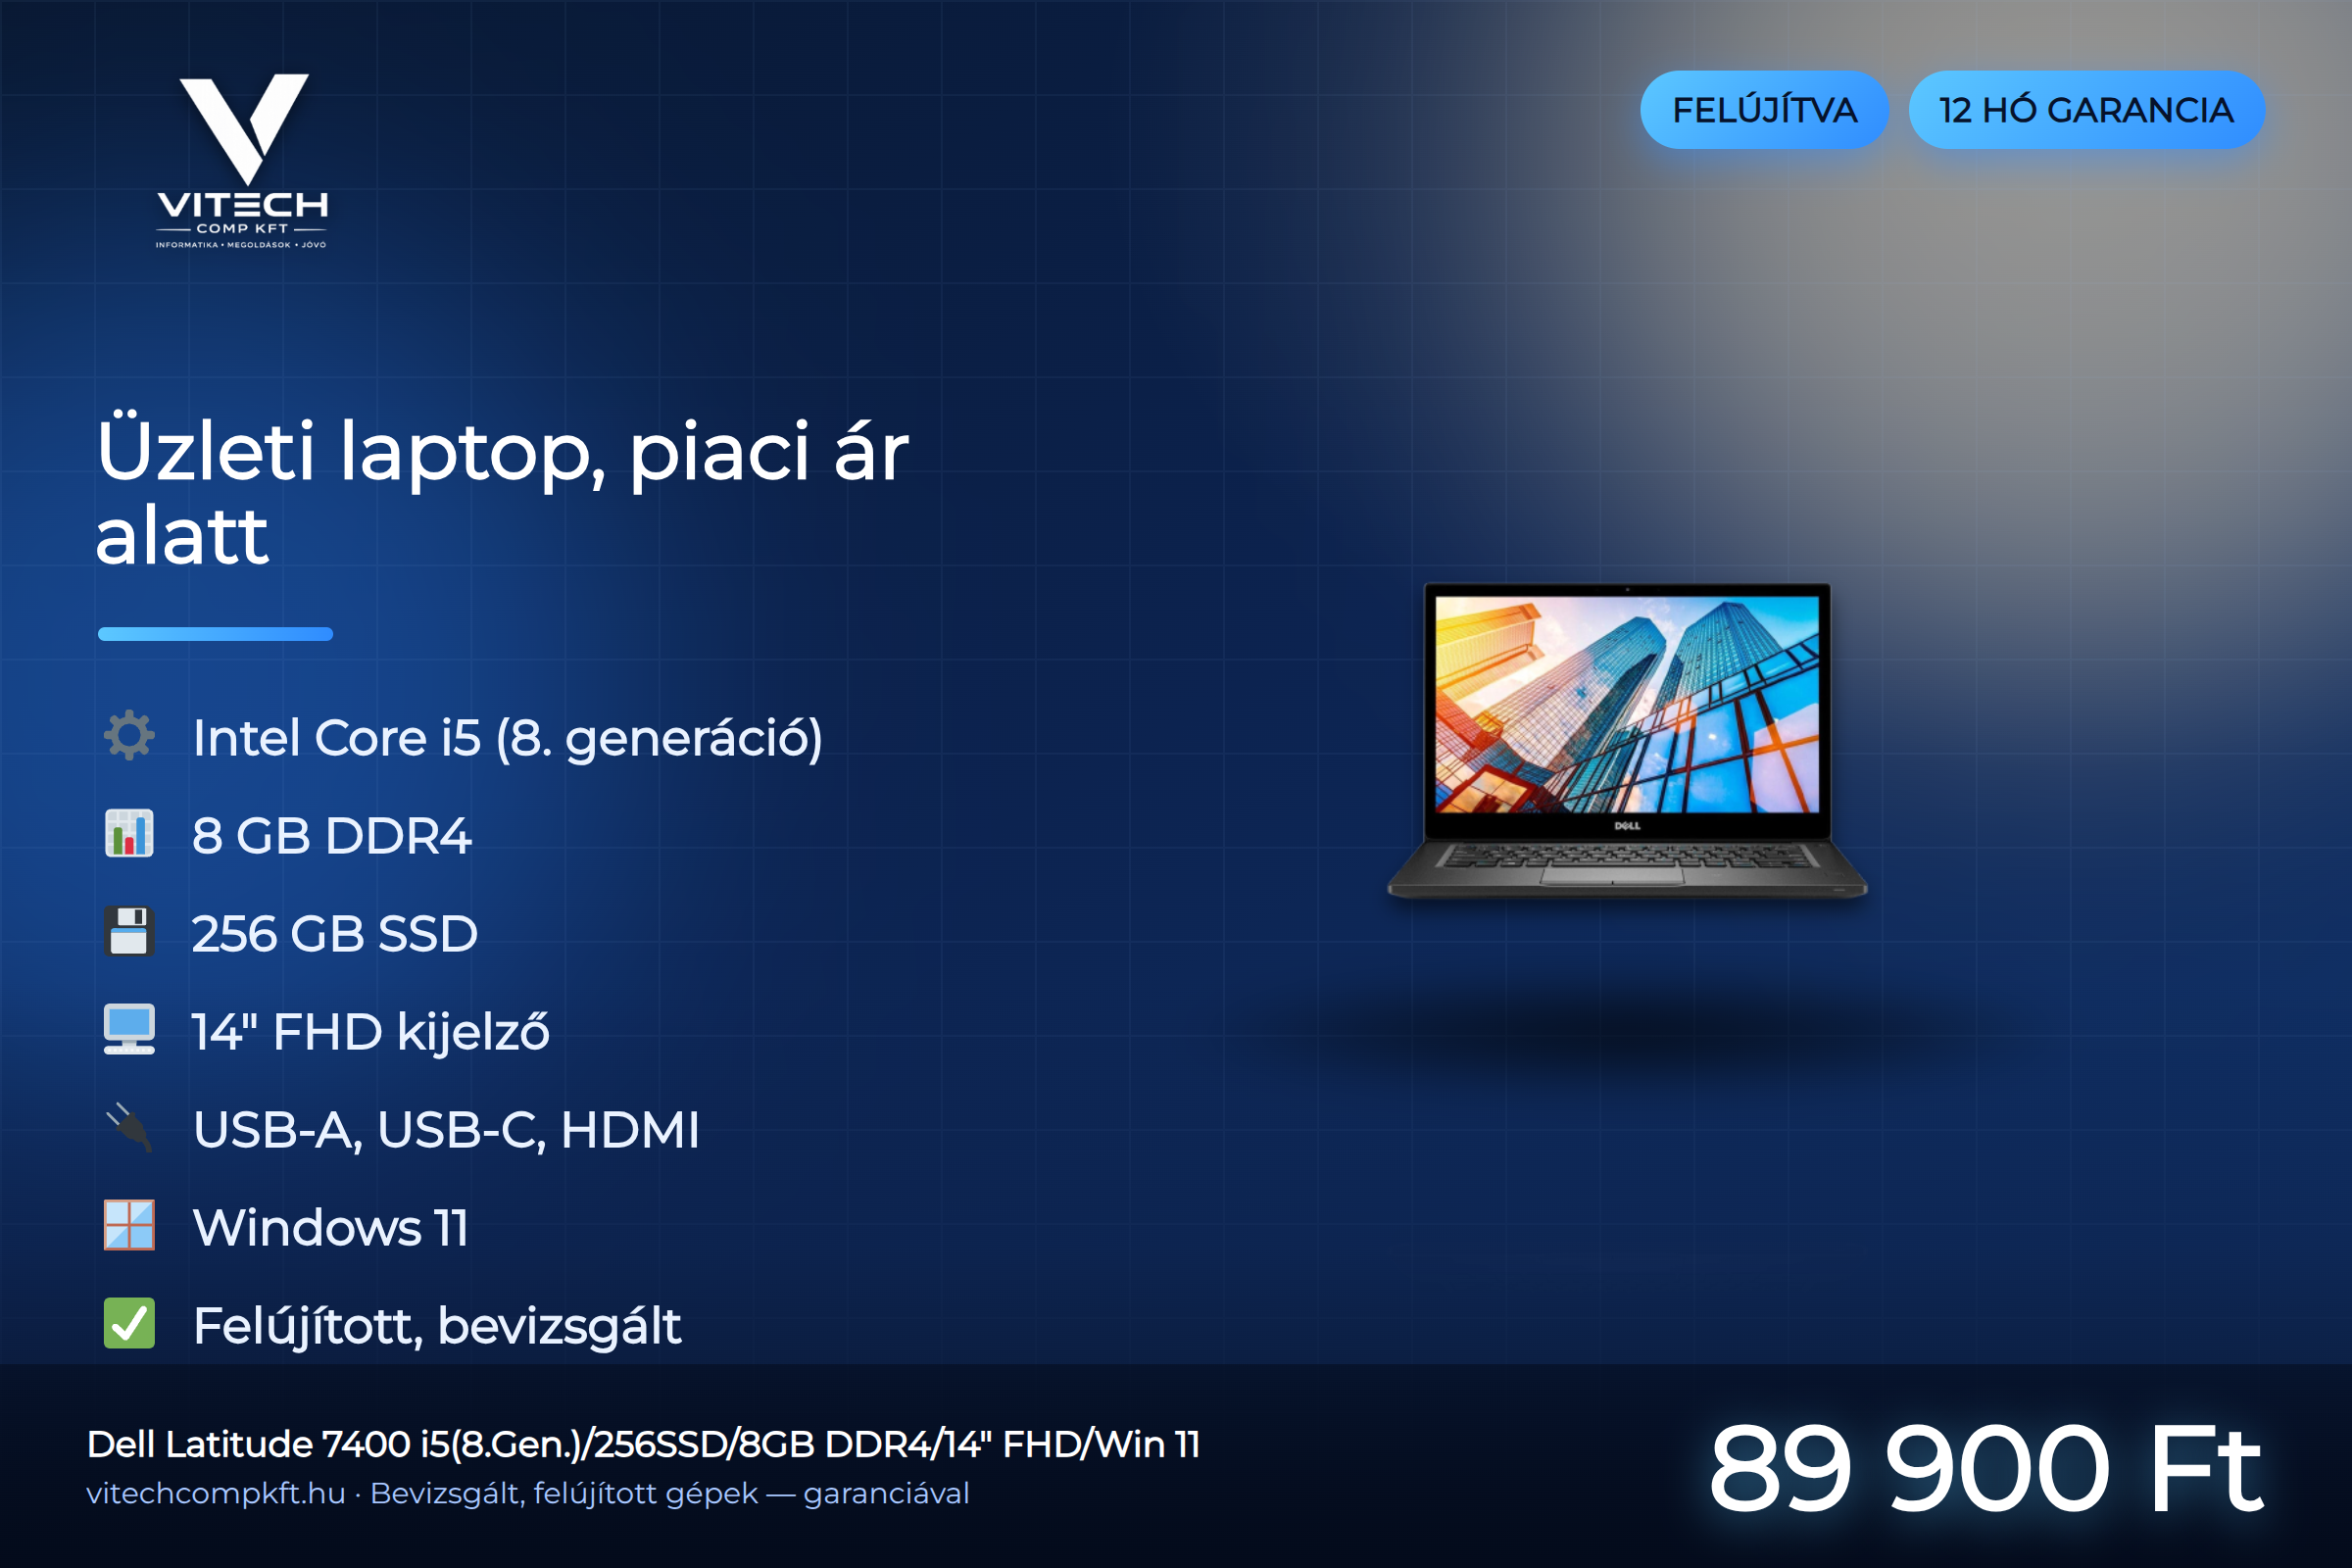
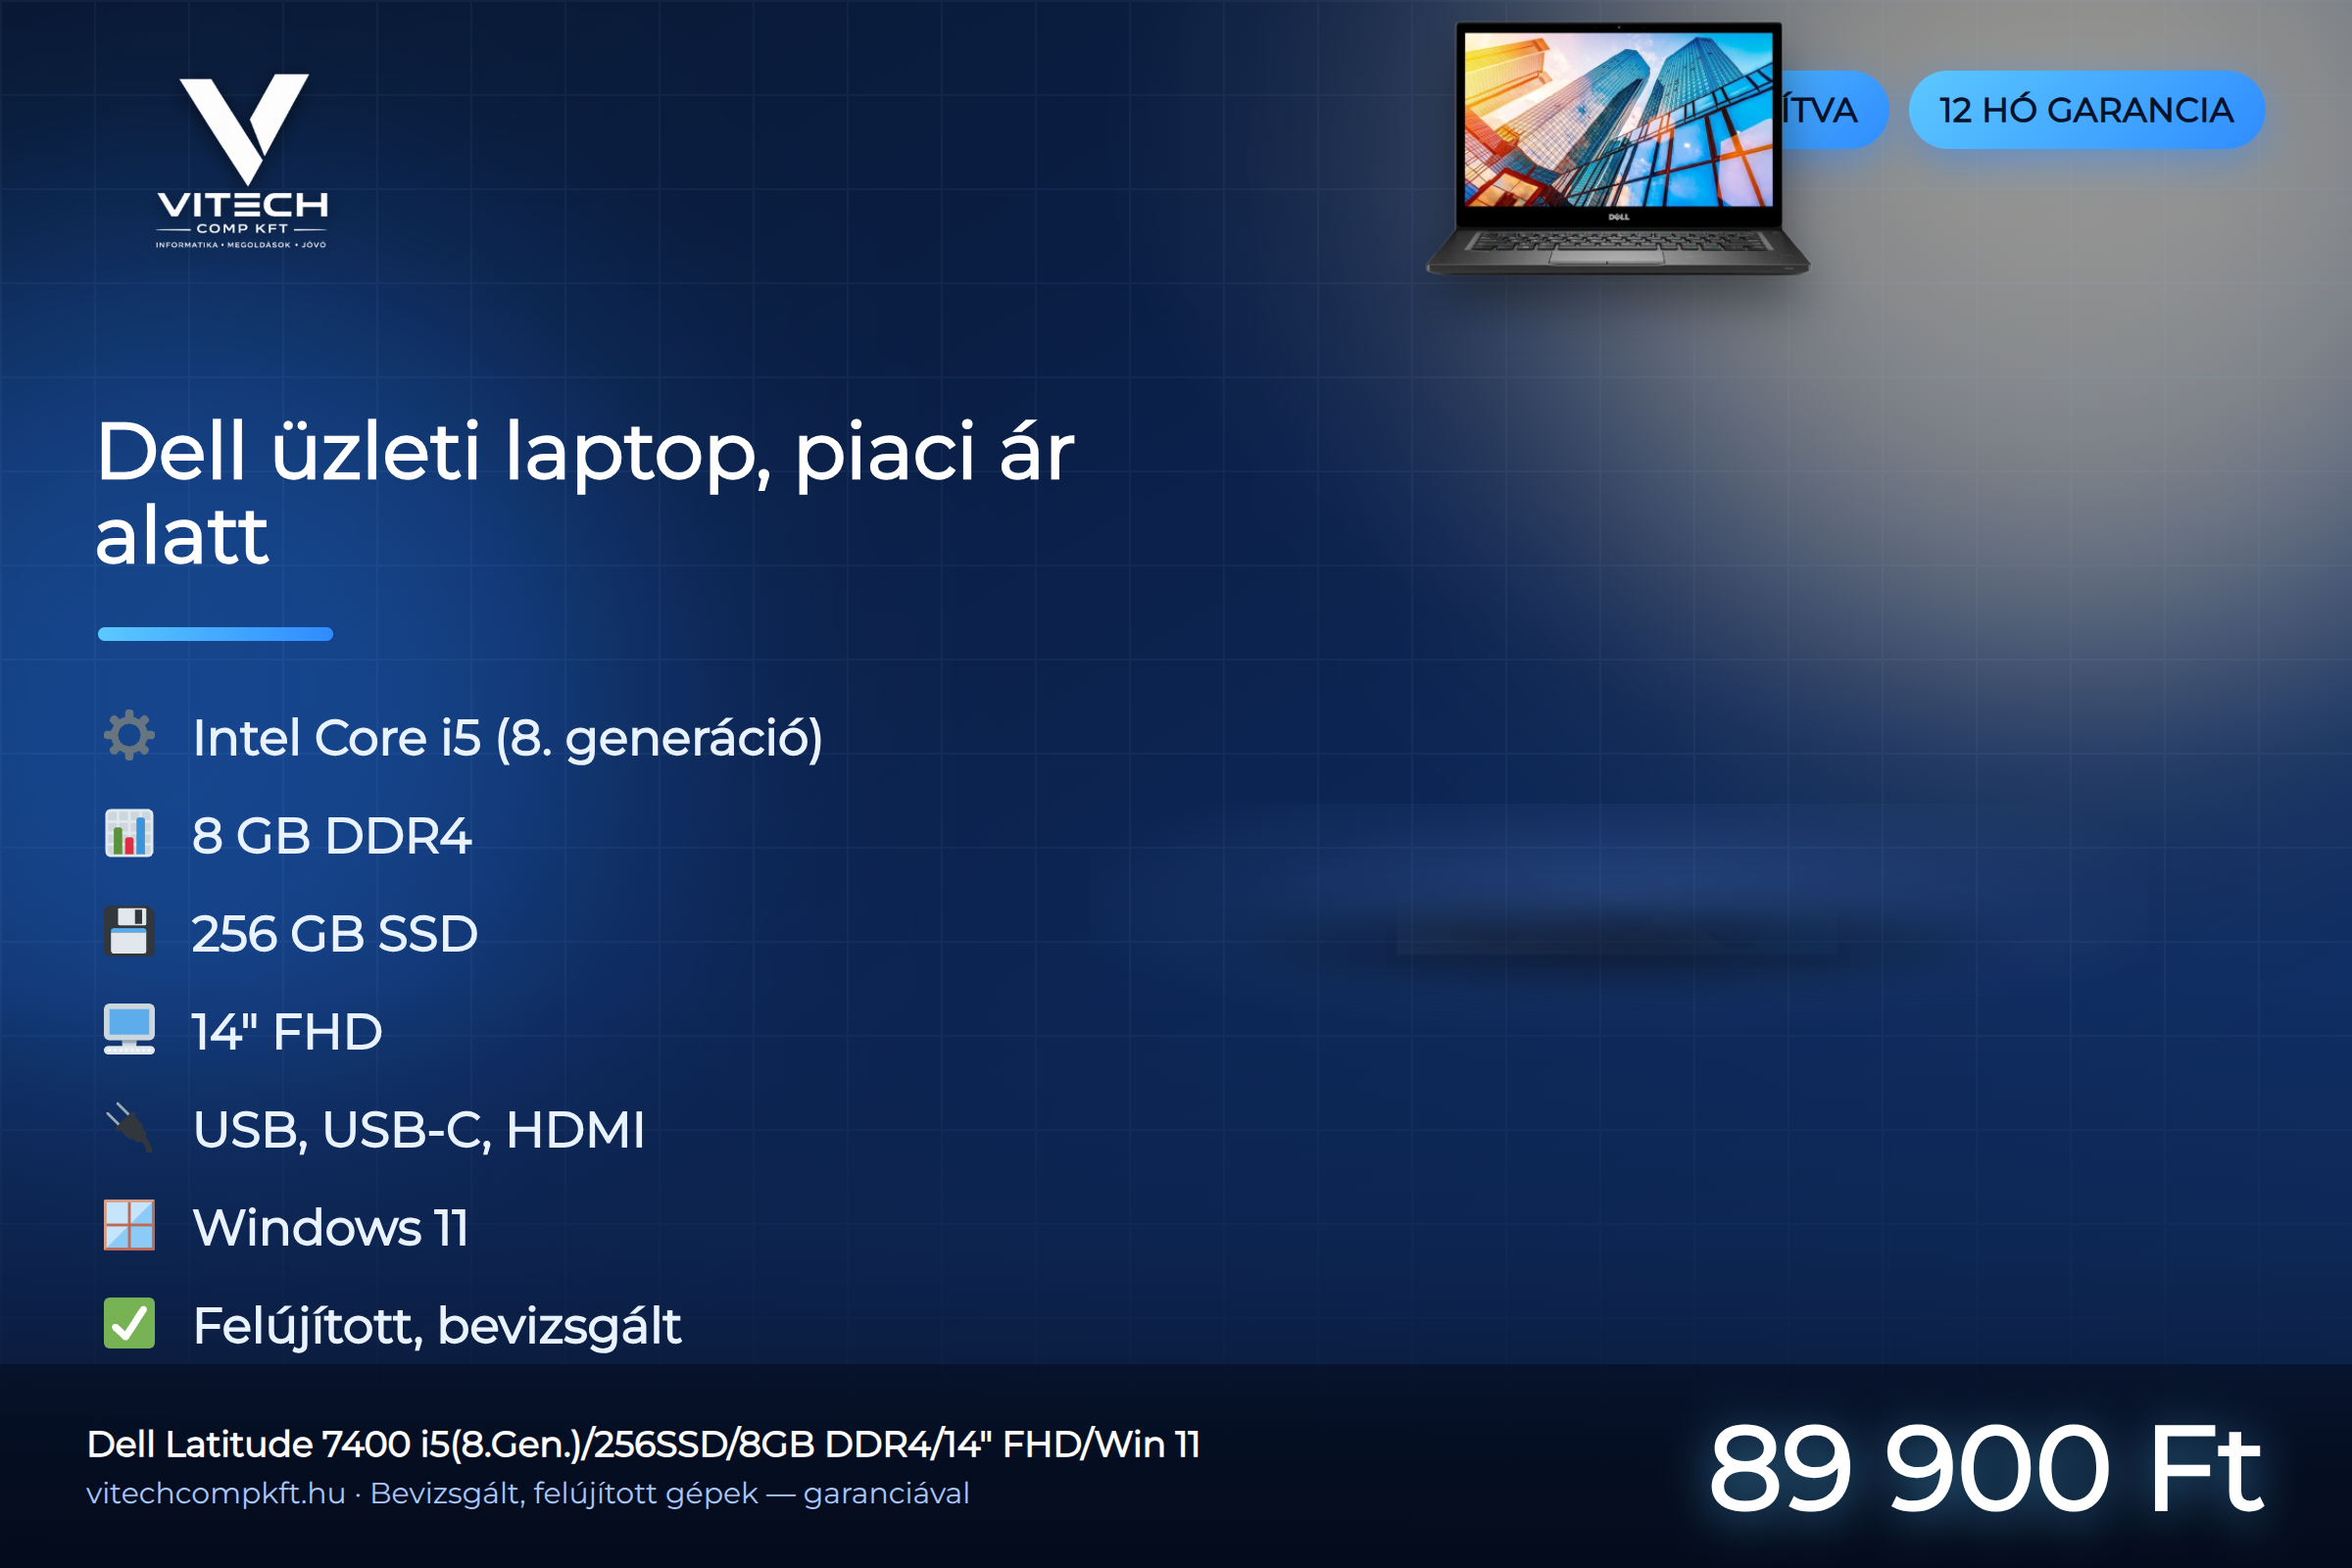
Poster grounding: absolute layout (no badge overlap) + clipped reflection; fairer Luca QC
- Product anchored at a fixed contact line (bottom:96) so it can't push up into the
  badges; reflection in a short clipped/masked box starting at the product's base
- lucaReviewPoster recalibrated to judge a product-ad fairly: cutout-on-studio with
  shadow/reflection is acceptable; only reject true floating, overlaps, cut-off text

diff --git a/src/lib/poster.ts b/src/lib/poster.ts
@@ -58,7 +58,7 @@ export function buildPosterHtml(o: PosterData): { html: string; css: string } {
           o.productInScene
             ? "" /* a laptop már a fal.ai jelenetben van → nincs külön termék-overlay */
             : o.cutout
-            ? `<div class="floor"></div><div class="shadow"></div><div class="prodwrap"><img class="cut" src="${o.cutout}"/><img class="reflect" src="${o.cutout}"/></div>`
+            ? `<div class="floor"></div><div class="shadow"></div><img class="cut" src="${o.cutout}"/><div class="reflbox"><img src="${o.cutout}"/></div>`
             : o.imageUrl
             ? `<div class="pedestal"></div><img src="${esc(o.imageUrl)}"/>`
             : ""
@@ -116,21 +116,24 @@ export function buildPosterHtml(o: PosterData): { html: string; css: string } {
   .specs li { display:flex; align-items:center; gap:16px; margin-bottom:18px; }
   .specs li i { font-size:26px; font-style:normal; width:34px; text-align:center; }
   .specs li span { font-size:25px; font-weight:600; color:#e9f2ff; }
-  /* a termék egy FÉNYES FELÜLETEN áll: pódium-fény + valódi tükrözodés + kontakt-árnyék → nem lebeg */
-  .product { position:absolute; right:55px; bottom:120px; width:550px; height:410px;
-    display:flex; align-items:flex-end; justify-content:center; }
-  /* fényes felület-folt (pódium) a termék alatt */
-  .product .floor { position:absolute; left:50%; bottom:30px; width:540px; height:150px; transform:translateX(-50%); z-index:0;
-    background:radial-gradient(ellipse 76% 64% at 50% 32%, rgba(118,166,246,.22) 0%, rgba(118,166,246,.06) 46%, transparent 74%); }
-  /* eros, lágy kontakt-árnyék a talp vonalában */
-  .product .shadow { position:absolute; left:50%; bottom:84px; width:430px; height:48px; transform:translateX(-50%); z-index:1;
-    background:radial-gradient(ellipse at center, rgba(0,0,0,.62) 0%, rgba(0,0,0,.28) 44%, transparent 72%); filter:blur(10px); }
-  /* termék + tükrözodés egymás alatt */
-  .product .prodwrap { position:relative; z-index:2; display:flex; flex-direction:column; align-items:center; }
-  .product .cut { max-width:485px; max-height:265px; display:block; filter:drop-shadow(0 14px 13px rgba(0,0,0,.42)); }
-  .product .reflect { max-width:485px; max-height:265px; display:block; transform:scaleY(-1); margin-top:-4px; opacity:.20;
-    -webkit-mask-image:linear-gradient(to bottom, rgba(0,0,0,.6) 0%, transparent 36%);
-            mask-image:linear-gradient(to bottom, rgba(0,0,0,.6) 0%, transparent 36%); }
+  /* a termék egy FÉNYES FELÜLETEN áll: pódium-fény + valódi tükrözodés + kontakt-árnyék → nem lebeg.
+     Abszolút pozicionálás, a "kontakt-vonal" (talp) ~96px a .product aljától. */
+  .product { position:absolute; right:60px; bottom:135px; width:480px; height:360px; }
+  /* fényes felület-folt a talp körül */
+  .product .floor { position:absolute; left:50%; bottom:34px; width:470px; height:140px; transform:translateX(-50%); z-index:0;
+    background:radial-gradient(ellipse 74% 58% at 50% 42%, rgba(120,165,245,.20) 0%, rgba(120,165,245,.05) 48%, transparent 74%); }
+  /* kontakt-árnyék a talp vonalában */
+  .product .shadow { position:absolute; left:50%; bottom:84px; width:400px; height:44px; transform:translateX(-50%); z-index:1;
+    background:radial-gradient(ellipse at center, rgba(0,0,0,.6) 0%, rgba(0,0,0,.27) 44%, transparent 72%); filter:blur(9px); }
+  /* termék: a talpa a 96px-es kontakt-vonalon */
+  .product .cut { position:absolute; left:0; right:0; bottom:96px; margin:0 auto; max-width:470px; max-height:250px;
+    display:block; z-index:3; filter:drop-shadow(0 14px 14px rgba(0,0,0,.42)); }
+  /* valódi tükrözodés: levágott, halványuló doboz a talp ALATT */
+  .product .reflbox { position:absolute; left:0; right:0; bottom:8px; margin:0 auto; width:470px; height:86px; overflow:hidden; z-index:2;
+    -webkit-mask-image:linear-gradient(to bottom, rgba(0,0,0,.5) 0%, transparent 86%);
+            mask-image:linear-gradient(to bottom, rgba(0,0,0,.5) 0%, transparent 86%); }
+  .product .reflbox img { width:auto; max-width:470px; max-height:250px; display:block; margin:0 auto;
+    transform:scaleY(-1); transform-origin:top center; opacity:.5; }
   /* fallback (ha nincs kivágás): light pedestal a fehér hátteru fotóhoz */
   .pedestal { position:absolute; left:50%; top:50%; width:520px; height:300px; transform:translate(-50%,-45%);
     background:radial-gradient(ellipse at center, rgba(220,235,255,.95) 0%, rgba(220,235,255,.35) 42%, transparent 70%); filter:blur(2px); }

diff --git a/src/lib/claude.ts b/src/lib/claude.ts
@@ -615,12 +615,13 @@ export async function lucaReviewPoster(imageUrl: string): Promise<{ ok: boolean;
       { type: "image", source: { type: "url", url: imageUrl } },
       {
         type: "text",
-        text: `Te vagy Luca, a NAGYON kritikus marketingfonök. Ez egy kész termék-hirdetés plakát.
-SZIGORÚAN ítéld meg a VIZUÁLIS minoséget:
-- A termék (laptop/gép) REÁLISAN, egy felületen ÁLLVA helyezkedik el (van alatta árnyék, talajon van)? VAGY a LEVEGOBEN LEBEG / oda van ragasztva / nem illik a háttérbe?
-- Profi, eladható a kompozíció? A szöveg olvasható, nem takarja a termék?
-Ha a termék LEBEG, gányoltnak/odaragasztottnak tunik, vagy a kép nem valós/nem profi → ok=false.
-Válaszolj PONTOSAN ebben a JSON-ban: { "ok": true, "issue": "ha nem ok, mi a baj röviden" }`,
+        text: `Te vagy Luca, a kritikus marketingfonök. Ez egy TERMÉK-HIRDETÉS plakát (product ad), ahol a termék kivágva, STÚDIÓ-háttéren szerepel — mint a webshopok/Apple hirdetései. Ez a stílus PROFI és teljesen ELFOGADHATÓ.
+Reálisan, NE túl szigorúan ítélj. CSAK akkor utasítsd el (ok=false), ha KONKRÉT, súlyos hiba van:
+- a termék TÉNYLEG lebeg: NINCS alatta SEMMILYEN árnyék ÉS nincs tükrözodés/felület-jelzés (teljesen a semmiben lóg); VAGY
+- valami ÁTFEDI egymást (a termék rálóg a logóra/badge-re/szövegre), vagy egy felirat LE VAN VÁGVA; VAGY
+- a szöveg olvashatatlan.
+Ha a terméknek VAN árnyéka és/vagy tükrözodése egy felületen, az ELFOGADHATÓ → ok=true (a kivágott-termék look önmagában NEM hiba).
+Válaszolj PONTOSAN ebben a JSON-ban: { "ok": true, "issue": "ha nem ok, mi a konkrét baj röviden" }`,
       },
     ];
     const msg = await anthropic.messages.create({ model: SMART, max_tokens: 250, messages: [{ role: "user", content: content as any }] });